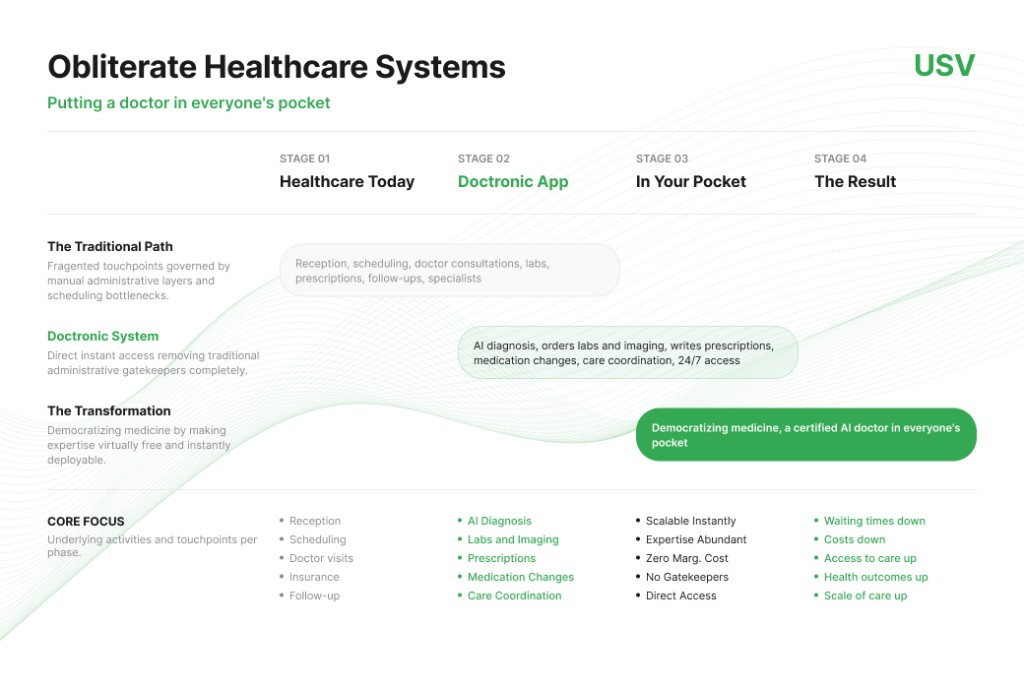
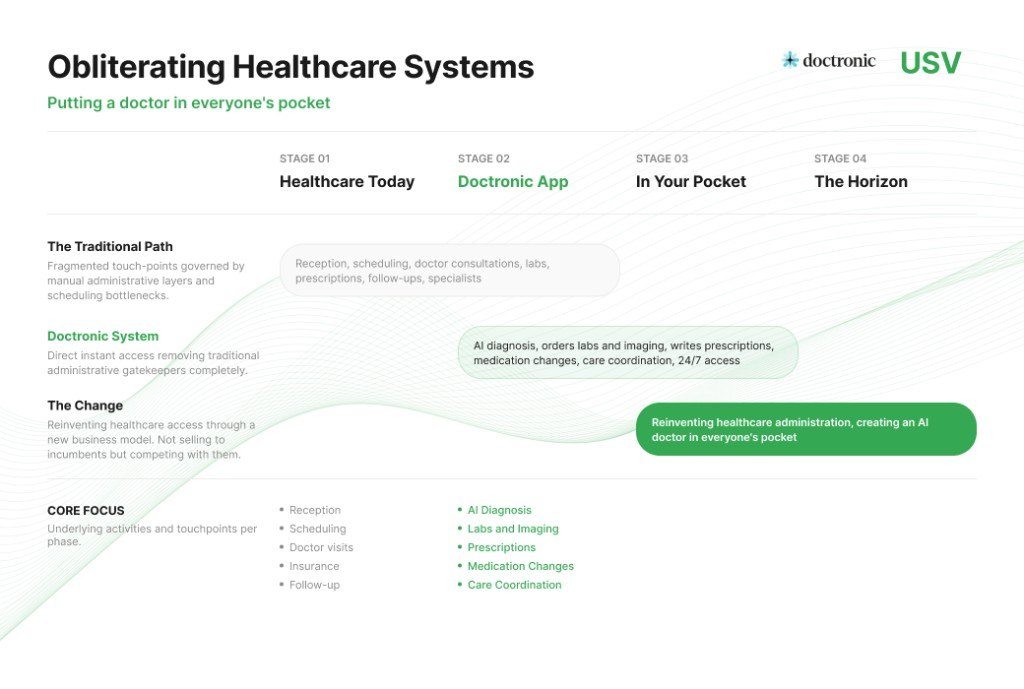
Restore Obliterate shatter header with USV mark and refresh diagram.
Show white USV in the opening as glass breaks, keep the label stable via overlay compositing, and swap in the updated Doctronic infographic.

diff --git a/src/components/obliterate/obliterate-shatter.jsx b/src/components/obliterate/obliterate-shatter.jsx
@@ -8,6 +8,8 @@ const FILL = "#34A853";
 const STROKE = "#ffffff";
 const VIEW_W = 1184;
 const VIEW_H = 792;
+const USV_SIZE = 37.95; // 30pt → +15% → +10%
+const USV_FONT = `600 ${USV_SIZE}px "Graphik Semibold", Graphik, "Helvetica Neue", Helvetica, Arial, sans-serif`;
 
 const clamp = (v, min, max) => Math.min(max, Math.max(min, v));
 const seg = (t, start, dur) => clamp((t - start) / dur, 0, 1);
@@ -28,6 +30,13 @@ function loopProgress(seconds) {
   if (phase < 0.06) return 0;
   if (phase < 0.7) return Easing.easeOutCubic(seg(phase, 0.06, 0.64));
   return 1;
+}
+
+function usvOpacity(progress) {
+  if (progress <= 0) return 0;
+  if (progress >= 1) return 1;
+  // Smooth fade in as the opening clears; no stepwise flash.
+  return Easing.easeOutCubic(clamp(progress / 0.45, 0, 1));
 }
 
 function buildRuntime(shards) {
@@ -58,7 +67,7 @@ function buildRuntime(shards) {
   return { count, paths, cx, cy, dirX, dirY, distance, rotation, delay, duration };
 }
 
-function drawFrame(ctx, runtime, progress, width, height, sourceW, sourceH, opening) {
+function drawMesh(ctx, runtime, progress, width, height, sourceW, sourceH, opening) {
   const { count, paths, cx, cy, dirX, dirY, distance, rotation, delay, duration } =
     runtime;
   const scale = Math.min(width / sourceW, height / sourceH);
@@ -105,9 +114,30 @@ function drawFrame(ctx, runtime, progress, width, height, sourceW, sourceH, open
     ctx.stroke(paths[i]);
     ctx.restore();
   }
+
+  ctx.setTransform(1, 0, 0, 1, 0, 0);
 }
 
-function bake(runtime, progress, sourceW, sourceH, dpr, opening) {
+function drawUsvOverlay(ctx, opening, progress, width, height, sourceW, sourceH) {
+  const opacity = usvOpacity(progress);
+  if (!opening || opacity <= 0) return;
+
+  const scale = Math.min(width / sourceW, height / sourceH);
+  const ox = (width - sourceW * scale) / 2;
+  const oy = (height - sourceH * scale) / 2;
+
+  ctx.save();
+  ctx.setTransform(scale, 0, 0, scale, ox, oy);
+  ctx.globalAlpha = opacity;
+  ctx.fillStyle = "#ffffff";
+  ctx.font = USV_FONT;
+  ctx.textAlign = "center";
+  ctx.textBaseline = "middle";
+  ctx.fillText("USV", opening.cx, opening.cy);
+  ctx.restore();
+}
+
+function bakeMesh(runtime, progress, sourceW, sourceH, dpr, opening) {
   const width = Math.round(VIEW_W * dpr);
   const height = Math.round(VIEW_H * dpr);
   const canvas = document.createElement("canvas");
@@ -115,7 +145,7 @@ function bake(runtime, progress, sourceW, sourceH, dpr, opening) {
   canvas.height = height;
   const ctx = canvas.getContext("2d", { alpha: false, desynchronized: true });
   if (!ctx) return canvas;
-  drawFrame(ctx, runtime, progress, width, height, sourceW, sourceH, opening);
+  drawMesh(ctx, runtime, progress, width, height, sourceW, sourceH, opening);
   return canvas;
 }
 
@@ -129,18 +159,30 @@ function ShatterViewport() {
   });
   const intactRef = useRef(null);
   const shatteredRef = useRef(null);
+  const meshBufferRef = useRef(null);
   const [ready, setReady] = useState(false);
   const rafRef = useRef(null);
   const startRef = useRef(0);
-  const lastKeyRef = useRef("");
+  const lastMeshKeyRef = useRef("");
 
   useEffect(() => {
     let isActive = true;
 
-    fetch("/assets/obliterate-shard-data.json")
-      .then((response) => response.json())
-      .then((data) => {
+    const load = async () => {
+      try {
+        const response = await fetch("/assets/obliterate-shard-data.json");
+        const data = await response.json();
         if (!isActive) return;
+
+        if (document.fonts?.ready) {
+          await document.fonts.ready;
+        }
+        // Warm the USV font so the first overlay paint is stable.
+        try {
+          await document.fonts.load(USV_FONT);
+        } catch {
+          // Fall back to the generic stack if Graphik isn't registered.
+        }
 
         const opening = {
           cx: data.impact?.cx ?? 410,
@@ -156,13 +198,21 @@ function ShatterViewport() {
         runtimeRef.current = runtime;
 
         const dpr = 1;
-        intactRef.current = bake(runtime, 0, data.sourceW, data.sourceH, dpr, opening);
-        shatteredRef.current = bake(runtime, 1, data.sourceW, data.sourceH, dpr, opening);
+        intactRef.current = bakeMesh(runtime, 0, data.sourceW, data.sourceH, dpr, opening);
+        shatteredRef.current = bakeMesh(runtime, 1, data.sourceW, data.sourceH, dpr, opening);
+
+        const buffer = document.createElement("canvas");
+        buffer.width = Math.round(VIEW_W * dpr);
+        buffer.height = Math.round(VIEW_H * dpr);
+        meshBufferRef.current = buffer;
+
         setReady(true);
-      })
-      .catch(() => {
+      } catch {
         if (isActive) setReady(false);
-      });
+      }
+    };
+
+    load();
 
     return () => {
       isActive = false;
@@ -173,18 +223,59 @@ function ShatterViewport() {
     if (!ready) return;
 
     const canvas = canvasRef.current;
-    if (!canvas) return;
+    const meshBuffer = meshBufferRef.current;
+    if (!canvas || !meshBuffer) return;
 
     const dpr = 1;
     canvas.width = Math.round(VIEW_W * dpr);
     canvas.height = Math.round(VIEW_H * dpr);
 
     const ctx = canvas.getContext("2d", { alpha: false, desynchronized: true });
-    if (!ctx) return;
+    const meshCtx = meshBuffer.getContext("2d", { alpha: false, desynchronized: true });
+    if (!ctx || !meshCtx) return;
+
+    const paintMesh = (progress) => {
+      const runtime = runtimeRef.current;
+      const { sourceW, sourceH, opening } = metaRef.current;
+      if (!runtime) return;
+
+      if (progress === 0 && intactRef.current) {
+        meshCtx.setTransform(1, 0, 0, 1, 0, 0);
+        meshCtx.drawImage(intactRef.current, 0, 0);
+      } else if (progress === 1 && shatteredRef.current) {
+        meshCtx.setTransform(1, 0, 0, 1, 0, 0);
+        meshCtx.drawImage(shatteredRef.current, 0, 0);
+      } else {
+        drawMesh(
+          meshCtx,
+          runtime,
+          progress,
+          meshBuffer.width,
+          meshBuffer.height,
+          sourceW,
+          sourceH,
+          opening,
+        );
+      }
+    };
+
+    const composite = (progress) => {
+      const { sourceW, sourceH, opening } = metaRef.current;
+      ctx.setTransform(1, 0, 0, 1, 0, 0);
+      ctx.drawImage(meshBuffer, 0, 0);
+      drawUsvOverlay(
+        ctx,
+        opening,
+        progress,
+        canvas.width,
+        canvas.height,
+        sourceW,
+        sourceH,
+      );
+    };
 
     const tick = (now) => {
-      const runtime = runtimeRef.current;
-      if (!runtime) {
+      if (!runtimeRef.current) {
         rafRef.current = requestAnimationFrame(tick);
         return;
       }
@@ -192,54 +283,33 @@ function ShatterViewport() {
       if (!startRef.current) startRef.current = now;
       const progress = loopProgress((now - startRef.current) / 1000);
 
-      const key =
+      const meshKey =
         progress === 0 || progress === 1
           ? `hold:${progress}`
           : `move:${(progress * 120) | 0}`;
 
-      if (key === lastKeyRef.current) {
-        rafRef.current = requestAnimationFrame(tick);
-        return;
+      if (meshKey !== lastMeshKeyRef.current) {
+        lastMeshKeyRef.current = meshKey;
+        paintMesh(progress);
       }
-      lastKeyRef.current = key;
 
-      const { sourceW, sourceH, opening } = metaRef.current;
-
-      if (progress === 0 && intactRef.current) {
-        ctx.setTransform(1, 0, 0, 1, 0, 0);
-        ctx.drawImage(intactRef.current, 0, 0);
-      } else if (progress === 1 && shatteredRef.current) {
-        ctx.setTransform(1, 0, 0, 1, 0, 0);
-        ctx.drawImage(shatteredRef.current, 0, 0);
-      } else {
-        drawFrame(
-          ctx,
-          runtime,
-          progress,
-          canvas.width,
-          canvas.height,
-          sourceW,
-          sourceH,
-          opening,
-        );
-      }
+      // Always re-composite so USV opacity tracks progress smoothly
+      // without being quantized to mesh frame steps.
+      composite(progress);
 
       rafRef.current = requestAnimationFrame(tick);
     };
 
-    if (intactRef.current) {
-      ctx.setTransform(1, 0, 0, 1, 0, 0);
-      ctx.drawImage(intactRef.current, 0, 0);
-      lastKeyRef.current = "hold:0";
-    }
-
+    paintMesh(0);
+    composite(0);
+    lastMeshKeyRef.current = "hold:0";
     rafRef.current = requestAnimationFrame(tick);
 
     return () => {
       if (rafRef.current) cancelAnimationFrame(rafRef.current);
       rafRef.current = null;
       startRef.current = 0;
-      lastKeyRef.current = "";
+      lastMeshKeyRef.current = "";
     };
   }, [ready]);
 

diff --git a/src/lib/posts.js b/src/lib/posts.js
@@ -27,7 +27,7 @@ export const posts = [
       {
         type: "image",
         src: "/assets/obliterate-infographic.png",
-        alt: "Obliterate Healthcare Systems — Putting a doctor in everyone's pocket",
+        alt: "Obliterating Healthcare Systems — Putting a doctor in everyone's pocket",
         width: 1024,
         height: 689,
       },
@@ -53,13 +53,7 @@ export const posts = [
       },
     ],
     media: {
-      header: {
-        type: "video",
-        src: "/assets/obliterate-loop.mp4",
-        alt: "Green wireframe terrain loop",
-        width: 1184,
-        height: 784,
-      },
+      header: { type: "obliterate-shatter" },
     },
   },
   {